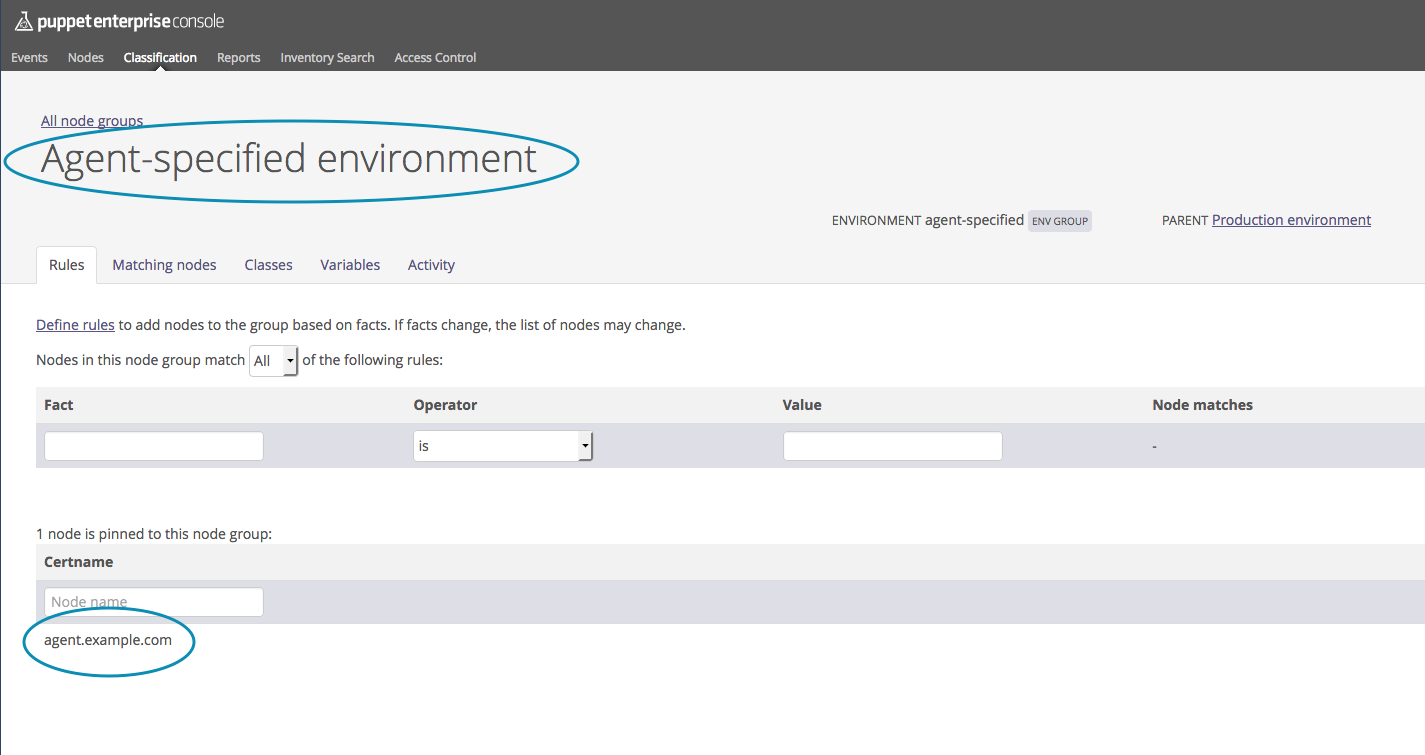
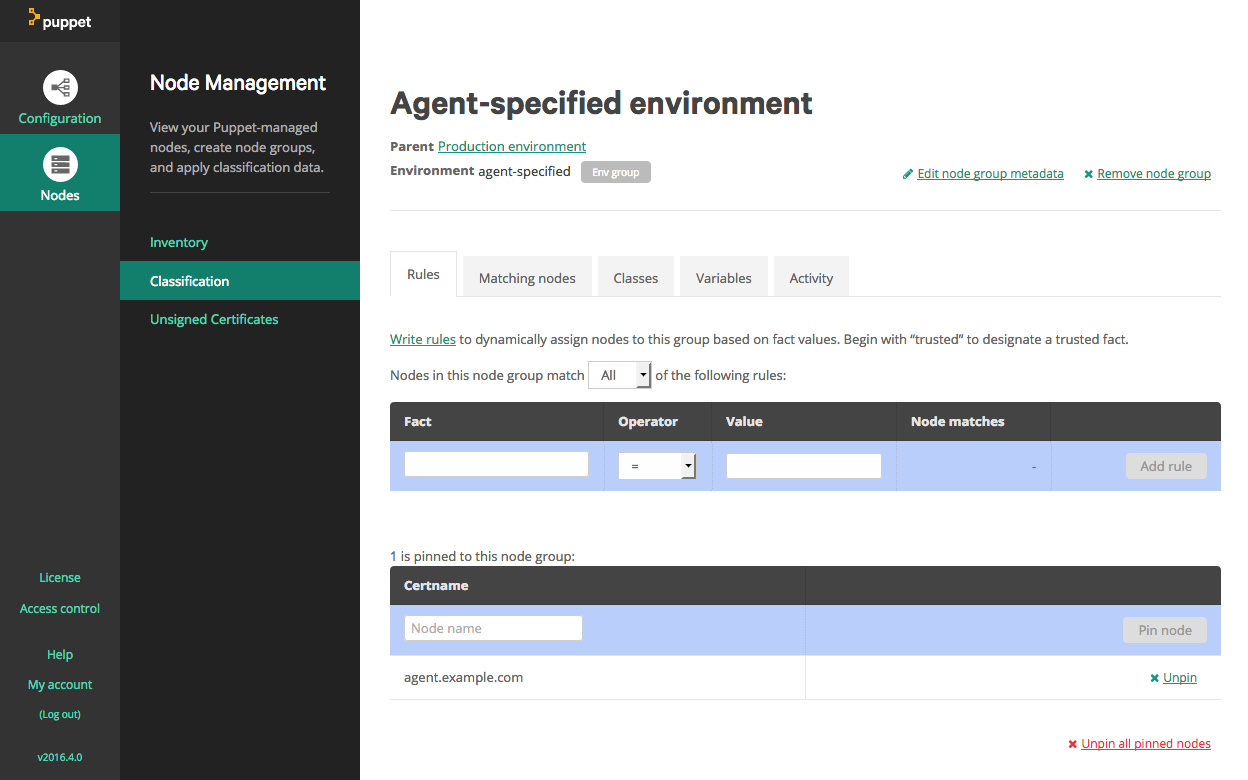
update image

diff --git a/tutorial/vbox/08-Environments.md b/tutorial/vbox/08-Environments.md
@@ -218,7 +218,7 @@ We got a warning!
 Warning: Local environment: "development" doesn't match server specified node environment "production", switching agent to "production".
 ```
 
-So how are we suposed to implement the code dev/test/promote workflow we
+So how are we suposed to implement the code/dev/test/promote workflow we
 presented previously?
 
 There's a couple ways we can approach this:
@@ -226,17 +226,17 @@ There's a couple ways we can approach this:
 1. Add our **agent.example.com** node to the **"Agent-specified environment"** node group via the PE Console
 2. Disable the PE Console as the node classifier entirely
 
-For the purposes of this example, we will go with option 1.  In a LEI install,
-where you plan to have thoustands of nodes, you'd want to go with option 2 and
-disable the PE Console as the ENC entirely, as it will eventually become a
-performance bottleneck.  (This is a known issues with PE 3.8.x and older.)
+For the purposes of this example, we will go with option 1.
+
 
 ### Add node to Agent-specified environment node group
 
 Let's do this:
 
 1. Get logged into the PE console as the admin user.
-2. Click on **Classification** tab
+2. Click on **Nodes** in the left-sidebar
+2. Click on **Classification** sub-category
+3. Drill into the **Production environment**
 3. Click on **"Agent-specified environment"**
 4. In the bottom section where you see **"Certname"** click and select **agent.example.com**
 5. On the right, click **Pin Node**
